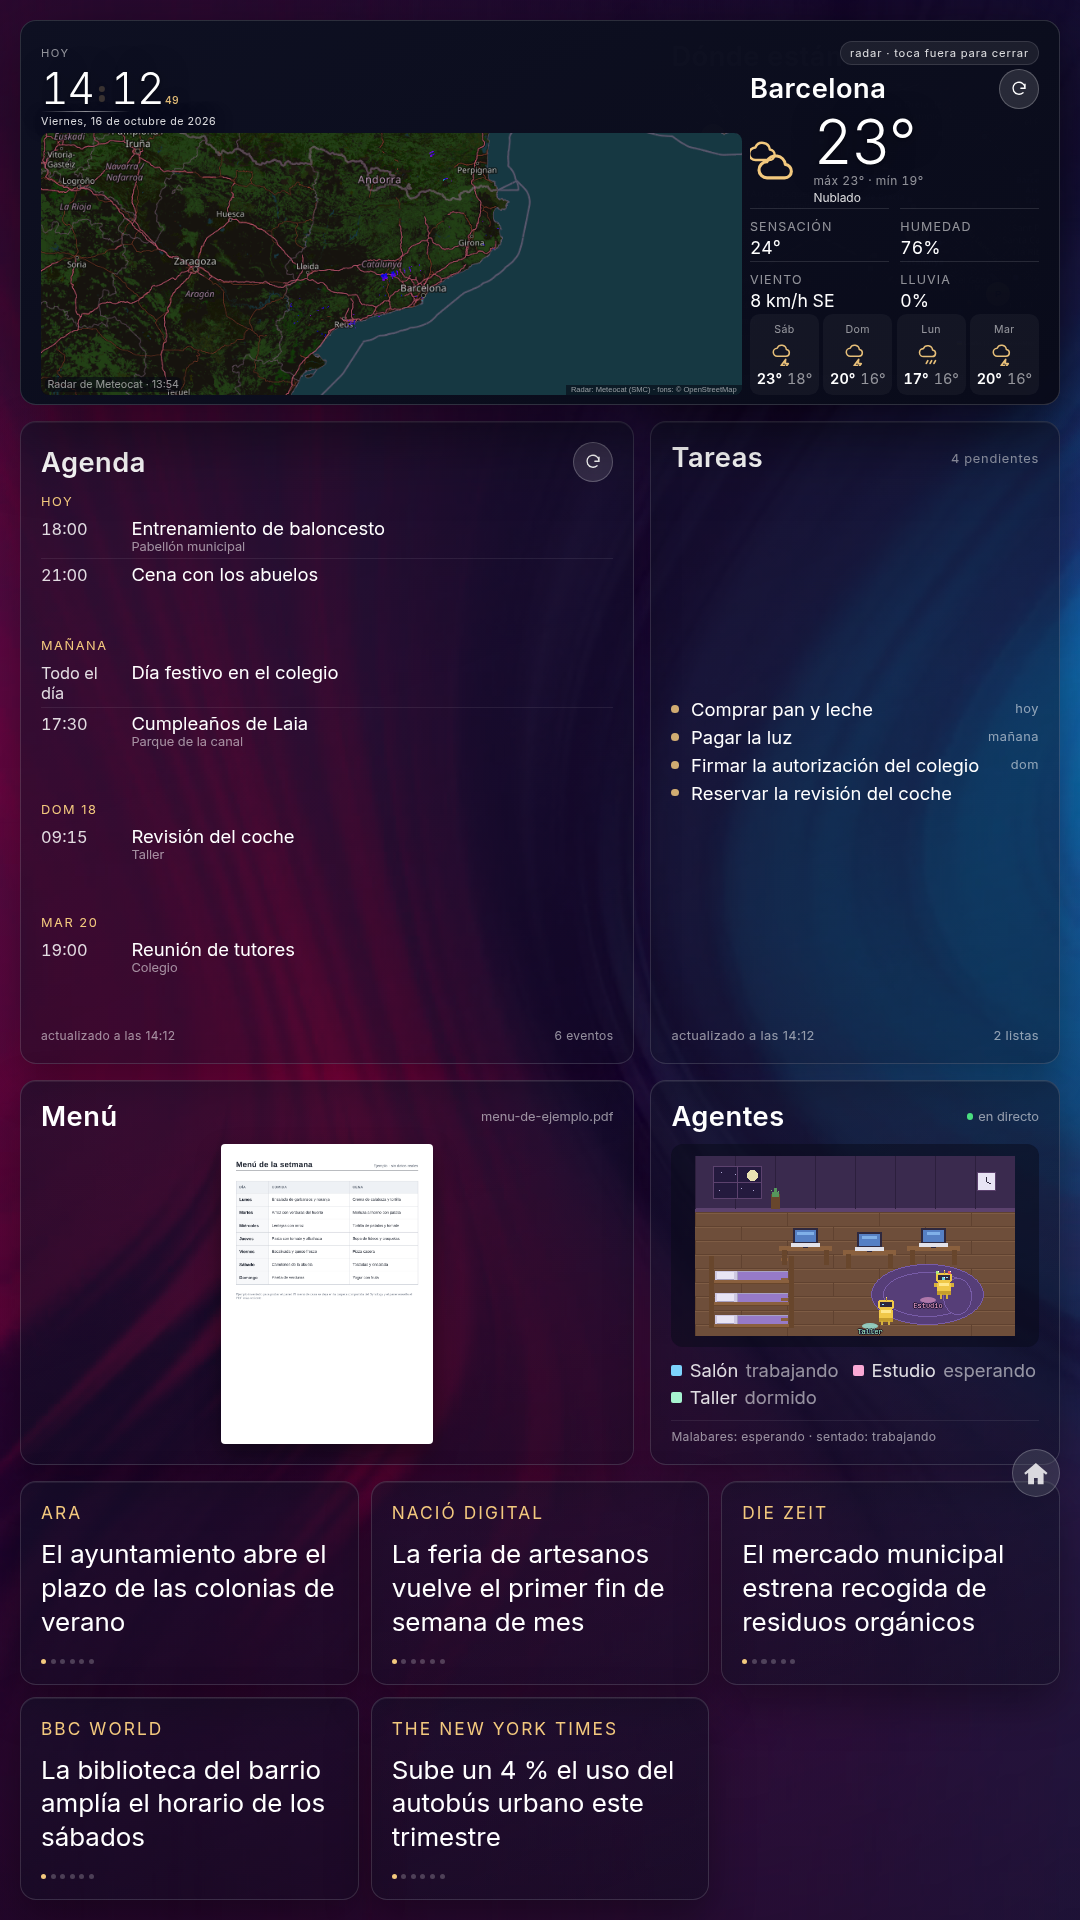
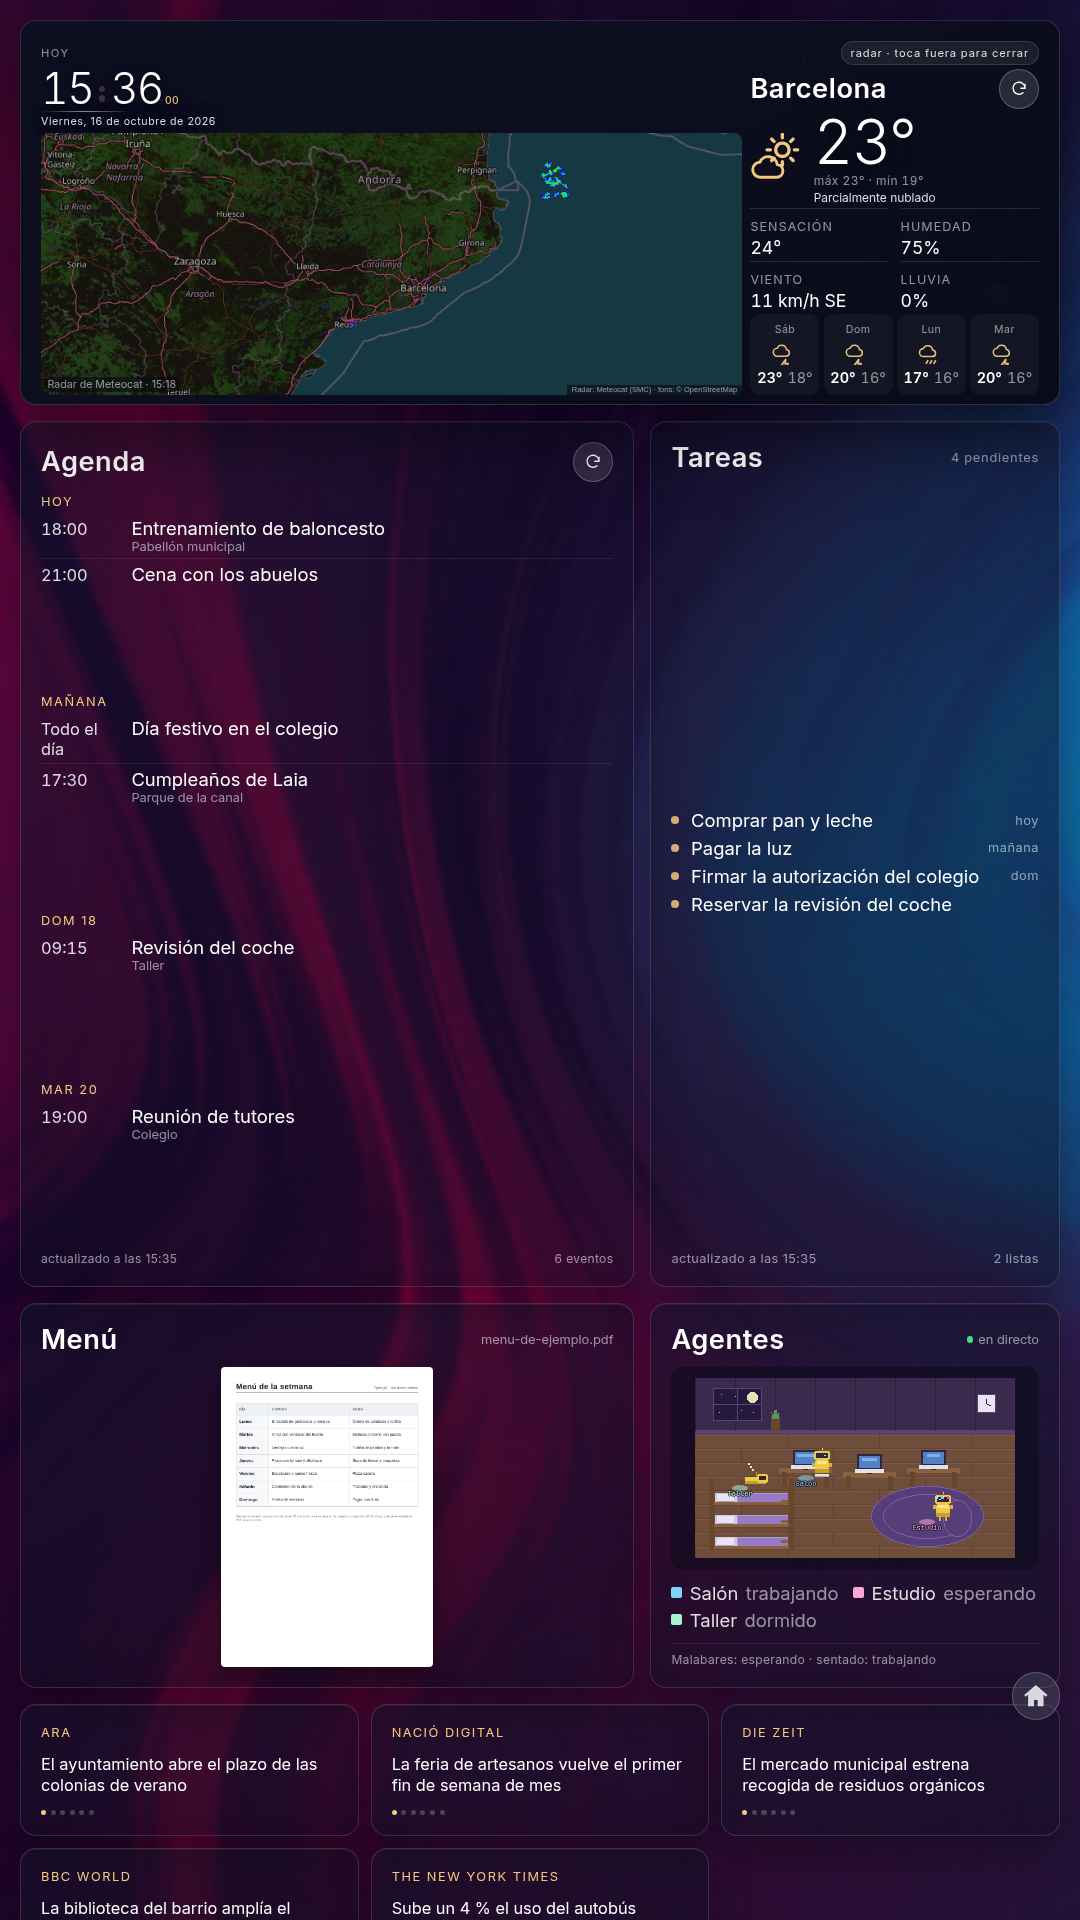
los titulares, con la letra del calendario, y su alto para la agenda y las tareas
Los titulares gastaban 25,9 px (2.4vmin) cuando el calendario usa 16,32 (--t-body), asi que ahora van con el mismo token. Con esa letra la franja ya no necesita 13 cm: baja a 6, y los 7 cm que suelta se los queda la fila de la agenda y las tareas, que sube de 20 a 27 cm y sigue con las dos tarjetas a la misma altura (van en la misma fila). El divisor del centimetro sube de 49 a 57, que es la suma de las cuatro filas (12+27+12+6): sin eso, el centimetro que se recorta solo en pantallas bajas dejaria de cuadrar y la franja se saldria por abajo. Y ojo: el token --cm6 hacia falta definirlo, porque sin el la declaracion entera de las filas es invalida y el navegador reparte por su cuenta.

diff --git a/src/App.css b/src/App.css
@@ -12,14 +12,15 @@
 :root {
   /* --- medidas del panel ----------------------------------------------------
      La pantalla de la Pi son 27" con 1080x1920: 81,6 px/pulgada, o sea 32,12 px por
-     centímetro. Las tres filas fijas suman 44 cm (12 + 20 + 12), así que el centímetro
+     centímetro. Las cuatro filas suman 57 cm (12 + 27 + 12 + 6), así que el centímetro
      se recorta solo cuando la pantalla es más baja —en un portátil de 800 px de alto
      salen ~16 px/cm, y en uno de 600, ~11,5— y así nunca aparece scroll vertical ni
      se queda contenido cortado. El hueco y el margen son los mismos en todas partes. */
   --page: 20px;
   --gap: 16px;
-  --cm: min(32.12px, calc((100vh - var(--page) * 2 - var(--gap) * 3 - 4px) / 49));
+  --cm: min(32.12px, calc((100vh - var(--page) * 2 - var(--gap) * 3 - 4px) / 57));
   --cm5: calc(5 * var(--cm));
+  --cm6: calc(6 * var(--cm));
   --cm9: calc(9 * var(--cm));
   --cm10: calc(10 * var(--cm));
   --cm12: calc(12 * var(--cm));
@@ -28,6 +29,7 @@
   --cm19: calc(19 * var(--cm));
   --cm20: calc(20 * var(--cm));
   --cm22: calc(22 * var(--cm));
+  --cm27: calc(27 * var(--cm));
 
   /* --- espaciado: múltiplos de 4 ------------------------------------------- */
   --sp-1: 4px;
@@ -70,20 +72,20 @@
      y no había forma de que cuadraran con un 60/40 en las tres. Con dos columnas, cada
      fila parte exactamente por el mismo sitio. */
   grid-template-columns: minmax(0, 3fr) minmax(0, 2fr);
-  /* La fila de planificación (agenda y tareas) no mide siempre lo mismo: va de 14 a
-     22 cm según lo que haya que enseñar. Con pocos eventos se queda corta y los
-     titulares ganan el hueco (nunca menos de 5 cm); con la semana llena se planta en
-     el tope de 20 cm y los eventos
-     se deslizan dentro de su tarjeta. Las otras dos filas son fijas: la de arriba
-     porque el reloj y el mapa no cambian de tamaño, y la del menú porque el cuarto
-     de los agentes necesita sus 180 px de alto y la vista del PDF se agradece
-     grande. Las tres fijas a tope suman 44 cm, y a eso se le reservan 5 más para la
-     franja de titulares: de ahí el 49 de la fórmula. Sin esa reserva, en un portátil
-     la fila de titulares se quedaba en 4 px (medido).
-     La fila de en medio baja a 20 cm (era 22) para que los titulares tengan alto de
-     sobra con tres líneas de titular, que es lo que puede llegar a ocupar el más
-     largo: con el borde de abajo a la misma distancia que el de arriba. */
-  grid-template-rows: var(--cm12) minmax(var(--cm12), var(--cm20)) var(--cm12) minmax(var(--cm5), 1fr);
+  /* La fila de planificación (agenda y tareas) no mide siempre lo mismo: va de 12 a
+     27 cm según lo que haya que enseñar. Con pocos eventos se queda corta y los
+     titulares ganan el hueco (nunca menos de 6 cm); con la semana llena se planta en
+     el tope de 27 cm y los eventos se deslizan dentro de su tarjeta. Las otras dos
+     filas son fijas: la de arriba porque el reloj y el mapa no cambian de tamaño, y la
+     del menú porque el cuarto de los agentes necesita sus 180 px de alto y la vista
+     del PDF se agradece grande. Las tres fijas a tope suman 51 cm, y a eso se le
+     reservan 6 más para la franja de titulares: de ahí el 57 de la fórmula. Sin esa
+     reserva, en un portátil la fila de titulares se quedaba en 4 px (medido).
+     Los titulares ya no piden 13 cm: con la letra del calendario (`--t-body`, en vez de
+     los 25,9 px que gastaban) la fuente, tres líneas y los puntos caben de sobra en 6.
+     Ese alto se lo queda la fila de la agenda y las tareas, que así enseñan bastantes
+     más eventos —y siguen midiendo lo mismo entre sí, porque van en la misma fila—. */
+  grid-template-rows: var(--cm12) minmax(var(--cm12), var(--cm27)) var(--cm12) minmax(var(--cm6), 1fr);
   grid-template-areas:
     'now map'
     'calendar tasks'
@@ -1076,7 +1078,7 @@
 }
 
 .news__source {
-  font-size: clamp(0.55rem, 1.4vmin, 0.8rem);
+  font-size: var(--t-meta);
   text-transform: uppercase;
   letter-spacing: 0.12em;
   color: var(--accent);
@@ -1087,7 +1089,7 @@
 
 .news__title {
   min-height: 0;
-  font-size: clamp(0.72rem, 1.9vmin, 1.08rem);
+  font-size: var(--t-body);
   line-height: 1.28;
   color: var(--ink);
   display: -webkit-box;
@@ -1733,9 +1735,8 @@
   font-size: var(--t-meta);
 }
 
-/* Los titulares se reparten lo que queda: con 12 + 22 + 10 cm por delante les
-   quedan unos 430 px de alto, así que vuelven a ir en dos columnas y con la letra
-   más grande. */
+/* Los titulares se reparten lo que sobra de la pantalla: hoy unos 195 px, y con la
+   misma letra que el calendario. Van en las columnas que pidan las fuentes. */
 .news-strip {
   gap: 1.1vmin;
   grid-template-columns: repeat(var(--news-cols, 2), minmax(0, 1fr));
@@ -1747,11 +1748,11 @@
 }
 
 .news__source {
-  font-size: 1.6vmin;
+  font-size: var(--t-meta);
 }
 
 .news__title {
-  font-size: 2.4vmin;
+  font-size: var(--t-body);
   line-height: 1.3;
   -webkit-line-clamp: 3;
 }
